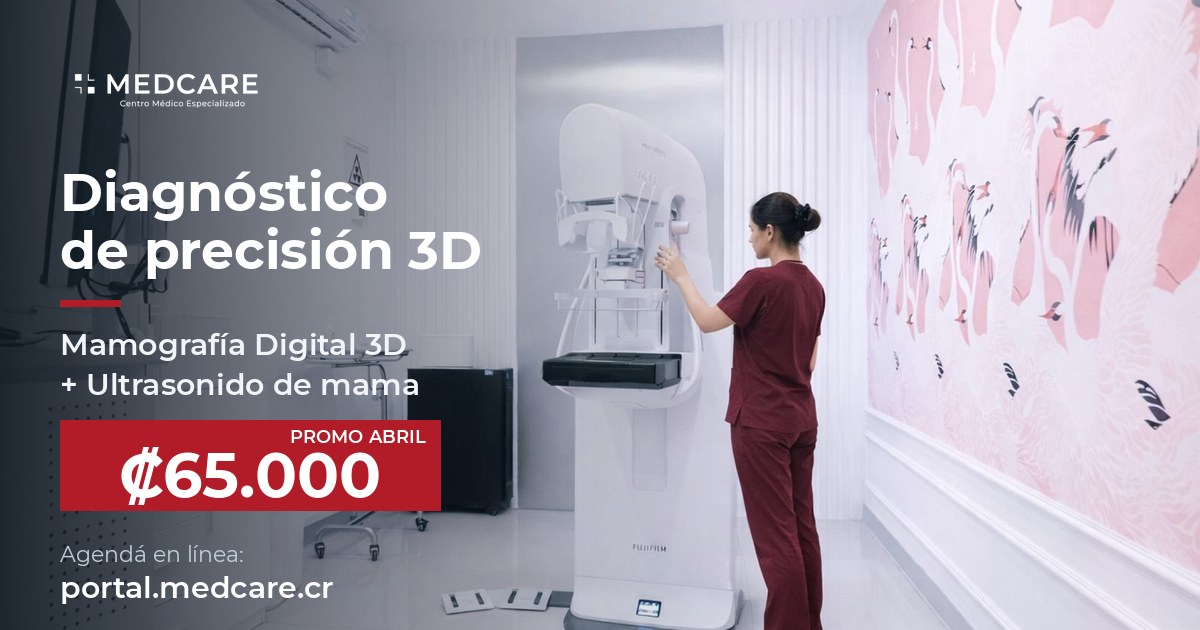
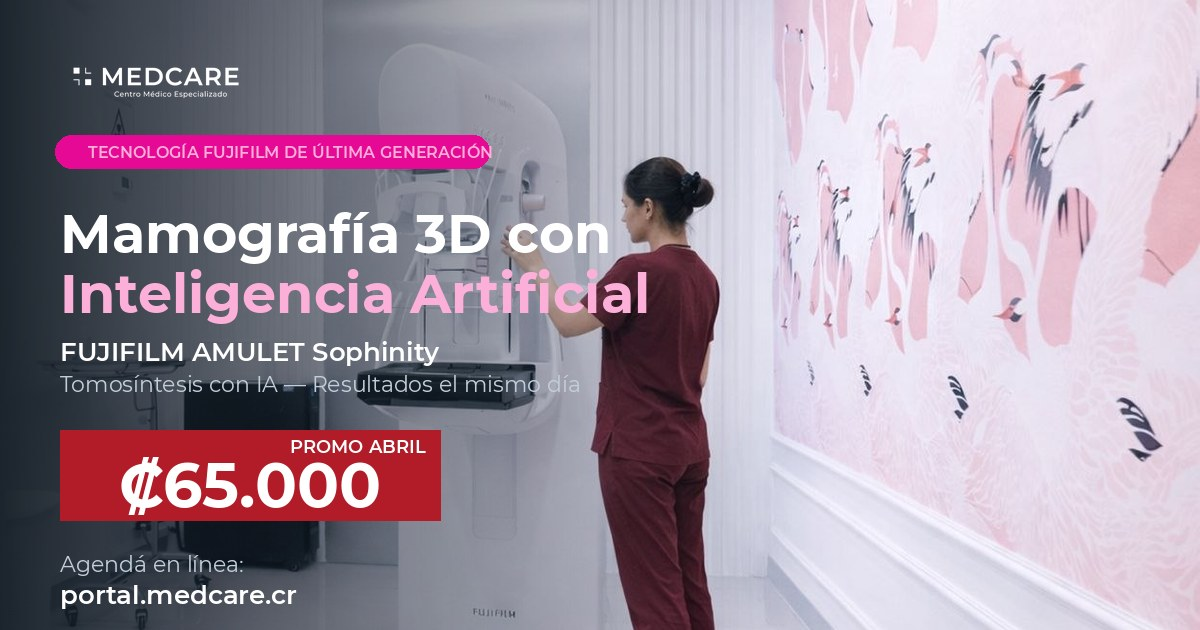
feat(medcare): Hero full-bleed con tech chips + sub-brand Mamografia
Rediseno el Hero para impacto dramatico:
- Imagen full-bleed de la tecnica operando el mamografo (version
  cropped hero 1248x1067 enfocando en tecnica + equipo + mural)
- Overlay navy degradado izquierda -> transparente derecha
- Headline con gradiente pink (Rhodamine Red C -> pale pink) en
  "Inteligencia Artificial"
- Eyebrow badge con border pink y dot animado: "Tecnologia
  Fujifilm de ultima generacion"
- CTA principal con sombra mas intensa + hover translate
- 4 tech chips glassmorphism con iconos SVG: Tomosintesis 3D,
  IA integrada, 10 segundos, Mismo dia

Integra el sub-brand Mamografia del brand book Mamo.pdf:
- brand.ts: nuevos tokens mamoPink (#E50995), mamoPinkMid
  (#EC52B4), mamoPinkSoft (#FCAFD9), mamoPinkBg (#FEEBF5)
- PricingSection promo card: gradiente pink soft + border fucsia
  + precio con gradient text de pink a rojo + eyebrow "paquete
  recomendado" con icono estrella
- OG image regenerada con acentos pink y crop cerrado

Pantones oficiales del brand book Mamografia:
- Rhodamine Red C
- 806 C (y 50% para fondos)

Tipografia: Monserrat (ya aplicada via layout previo).

diff --git a/business-os/src/features/medcare/components/landing/Hero.tsx b/business-os/src/features/medcare/components/landing/Hero.tsx
@@ -5,66 +5,123 @@ const B = MedCareBrand
 
 export function Hero() {
   return (
-    <section className="bg-gradient-to-br from-slate-900 via-slate-800 to-red-900 text-white">
-      <div className="max-w-5xl mx-auto px-4 sm:px-6 py-16 sm:py-24">
-        <div className="flex flex-col md:flex-row items-center gap-8 md:gap-12">
-          <div className="max-w-2xl flex-1">
-            <h1 className="text-3xl sm:text-5xl font-bold leading-tight mb-4">
-              Mamografía 3D con<br />
-              <span className="text-red-400">Inteligencia Artificial.</span>
-            </h1>
-            <p className="text-lg sm:text-xl text-gray-300 mb-4 leading-relaxed">
-              FUJIFILM AMULET Sophinity — tomosíntesis de última generación.
-              Adquisición 3D en 10 segundos con menos dolor.
-            </p>
-            <p className="text-base text-gray-400 mb-8">
-              Detectar a tiempo lo cambia todo. Agenda hoy y recibí resultados el mismo día.
-            </p>
-            <div className="flex flex-col sm:flex-row gap-3">
-              <a
-                href="#agendar"
-                className="inline-flex items-center justify-center gap-2 px-8 py-4 bg-red-600 hover:bg-red-700 text-white rounded-xl font-semibold text-lg transition shadow-lg shadow-red-600/25"
-              >
-                Agendar Mi Estudio
-                <svg className="w-5 h-5" fill="none" stroke="currentColor" viewBox="0 0 24 24">
-                  <path strokeLinecap="round" strokeLinejoin="round" strokeWidth={2} d="M19 9l-7 7-7-7" />
-                </svg>
-              </a>
-              <a
-                href={B.contact.whatsappLink}
-                target="_blank"
-                rel="noopener noreferrer"
-                className="inline-flex items-center justify-center gap-2 px-8 py-4 bg-white/10 hover:bg-white/20 border border-white/20 text-white rounded-xl font-medium text-lg transition"
-              >
-                <svg className="w-5 h-5" fill="currentColor" viewBox="0 0 24 24"><path d="M17.472 14.382c-.297-.149-1.758-.867-2.03-.967-.273-.099-.471-.148-.67.15-.197.297-.767.966-.94 1.164-.173.199-.347.223-.644.075-.297-.15-1.255-.463-2.39-1.475-.883-.788-1.48-1.761-1.653-2.059-.173-.297-.018-.458.13-.606.134-.133.298-.347.446-.52.149-.174.198-.298.298-.497.099-.198.05-.371-.025-.52-.075-.149-.669-1.612-.916-2.207-.242-.579-.487-.5-.669-.51-.173-.008-.371-.01-.57-.01-.198 0-.52.074-.792.372-.272.297-1.04 1.016-1.04 2.479 0 1.462 1.065 2.875 1.213 3.074.149.198 2.096 3.2 5.077 4.487.709.306 1.262.489 1.694.625.712.227 1.36.195 1.871.118.571-.085 1.758-.719 2.006-1.413.248-.694.248-1.289.173-1.413-.074-.124-.272-.198-.57-.347m-5.421 7.403h-.004a9.87 9.87 0 01-5.031-1.378l-.361-.214-3.741.982.998-3.648-.235-.374a9.86 9.86 0 01-1.51-5.26c.001-5.45 4.436-9.884 9.888-9.884 2.64 0 5.122 1.03 6.988 2.898a9.825 9.825 0 012.893 6.994c-.003 5.45-4.437 9.884-9.885 9.884m8.413-18.297A11.815 11.815 0 0012.05 0C5.495 0 .16 5.335.157 11.892c0 2.096.547 4.142 1.588 5.945L.057 24l6.305-1.654a11.882 11.882 0 005.683 1.448h.005c6.554 0 11.89-5.335 11.893-11.893a11.821 11.821 0 00-3.48-8.413z"/></svg>
-                Consultar por WhatsApp
-              </a>
-            </div>
+    <section className="relative isolate overflow-hidden bg-[#0F1820] text-white">
+      {/* Imagen de fondo full-bleed */}
+      <div className="absolute inset-0 -z-10">
+        <Image
+          src="/medcare/reales/tecnica-operando-hero.jpg"
+          alt="Técnica de MedCare operando el mamógrafo FUJIFILM Sophinity"
+          fill
+          priority
+          sizes="100vw"
+          className="object-cover object-[70%_center]"
+        />
+        {/* Overlay degradado navy desde la izquierda */}
+        <div className="absolute inset-0 bg-gradient-to-r from-[#0F1820] via-[#0F1820]/90 via-40% to-transparent" />
+        <div className="absolute inset-0 bg-gradient-to-t from-[#0F1820]/70 to-transparent" />
+      </div>
+
+      <div className="relative max-w-6xl mx-auto px-4 sm:px-6 py-20 sm:py-28 lg:py-36">
+        <div className="max-w-2xl">
+          {/* Eyebrow badge */}
+          <div className="inline-flex items-center gap-2 bg-[#E50995]/15 border border-[#E50995]/40 backdrop-blur-sm px-4 py-1.5 rounded-full mb-6">
+            <span className="w-2 h-2 rounded-full bg-[#E50995] animate-pulse" />
+            <span className="text-xs font-semibold tracking-wider text-[#FCAFD9] uppercase">
+              Tecnología Fujifilm de última generación
+            </span>
           </div>
-          {/* Móvil: imagen visible */}
-          <div className="w-full md:hidden flex justify-center">
-            <Image
-              src="/medcare/reales/tecnica-operando.jpg"
-              alt="Técnica de MedCare operando el mamógrafo FUJIFILM Sophinity en nuestro consultorio"
-              width={340}
-              height={420}
-              className="rounded-2xl shadow-2xl border-2 border-white/10 object-cover"
-              priority
-            />
+
+          <h1 className="text-4xl sm:text-5xl lg:text-6xl font-extrabold leading-[1.05] tracking-tight mb-6">
+            Mamografía 3D con{' '}
+            <span className="bg-gradient-to-r from-[#E50995] to-[#FCAFD9] bg-clip-text text-transparent">
+              Inteligencia Artificial
+            </span>
+          </h1>
+
+          <p className="text-lg sm:text-xl text-slate-200 leading-relaxed mb-4 max-w-xl">
+            <strong className="text-white">FUJIFILM AMULET Sophinity.</strong> Tomosíntesis de última generación con adquisición 3D en 10 segundos y menos dolor que un mamógrafo convencional.
+          </p>
+          <p className="text-base text-slate-300 mb-8 max-w-xl">
+            Detectar a tiempo lo cambia todo. Agendá hoy y recibí resultados el mismo día.
+          </p>
+
+          {/* CTAs */}
+          <div className="flex flex-col sm:flex-row gap-3 mb-10">
+            <a
+              href="#agendar"
+              className="group inline-flex items-center justify-center gap-2 px-8 py-4 bg-[#B11C28] hover:bg-[#8A1520] text-white rounded-xl font-semibold text-lg transition-all shadow-xl shadow-[#B11C28]/30 hover:shadow-2xl hover:shadow-[#B11C28]/50 hover:-translate-y-0.5"
+            >
+              Agendar Mi Estudio
+              <svg className="w-5 h-5 transition-transform group-hover:translate-x-1" fill="none" stroke="currentColor" strokeWidth={2.5} viewBox="0 0 24 24">
+                <path strokeLinecap="round" strokeLinejoin="round" d="M13 7l5 5m0 0l-5 5m5-5H6" />
+              </svg>
+            </a>
+            <a
+              href={B.contact.whatsappLink}
+              target="_blank"
+              rel="noopener noreferrer"
+              className="inline-flex items-center justify-center gap-2 px-8 py-4 bg-white/10 hover:bg-white/15 backdrop-blur-md border border-white/30 text-white rounded-xl font-medium text-lg transition"
+            >
+              <svg className="w-5 h-5" fill="currentColor" viewBox="0 0 24 24"><path d="M17.472 14.382c-.297-.149-1.758-.867-2.03-.967-.273-.099-.471-.148-.67.15-.197.297-.767.966-.94 1.164-.173.199-.347.223-.644.075-.297-.15-1.255-.463-2.39-1.475-.883-.788-1.48-1.761-1.653-2.059-.173-.297-.018-.458.13-.606.134-.133.298-.347.446-.52.149-.174.198-.298.298-.497.099-.198.05-.371-.025-.52-.075-.149-.669-1.612-.916-2.207-.242-.579-.487-.5-.669-.51-.173-.008-.371-.01-.57-.01-.198 0-.52.074-.792.372-.272.297-1.04 1.016-1.04 2.479 0 1.462 1.065 2.875 1.213 3.074.149.198 2.096 3.2 5.077 4.487.709.306 1.262.489 1.694.625.712.227 1.36.195 1.871.118.571-.085 1.758-.719 2.006-1.413.248-.694.248-1.289.173-1.413-.074-.124-.272-.198-.57-.347m-5.421 7.403h-.004a9.87 9.87 0 01-5.031-1.378l-.361-.214-3.741.982.998-3.648-.235-.374a9.86 9.86 0 01-1.51-5.26c.001-5.45 4.436-9.884 9.888-9.884 2.64 0 5.122 1.03 6.988 2.898a9.825 9.825 0 012.893 6.994c-.003 5.45-4.437 9.884-9.885 9.884m8.413-18.297A11.815 11.815 0 0012.05 0C5.495 0 .16 5.335.157 11.892c0 2.096.547 4.142 1.588 5.945L.057 24l6.305-1.654a11.882 11.882 0 005.683 1.448h.005c6.554 0 11.89-5.335 11.893-11.893a11.821 11.821 0 00-3.48-8.413z"/></svg>
+              Consultar por WhatsApp
+            </a>
           </div>
-          {/* Desktop: imagen lateral */}
-          <div className="hidden md:block flex-shrink-0">
-            <Image
-              src="/medcare/reales/tecnica-operando.jpg"
-              alt="Técnica de MedCare operando el mamógrafo FUJIFILM Sophinity en nuestro consultorio"
-              width={420}
-              height={520}
-              className="rounded-2xl shadow-2xl border-2 border-white/10 object-cover"
-              priority
-            />
+
+          {/* Tech stats chips */}
+          <div className="flex flex-wrap gap-3">
+            <TechChip icon="cube" label="Tomosíntesis 3D" sublabel="Capa a capa" />
+            <TechChip icon="ai" label="IA integrada" sublabel="Detección asistida" />
+            <TechChip icon="clock" label="10 segundos" sublabel="Captura 3D" />
+            <TechChip icon="check" label="Mismo día" sublabel="Resultados" />
           </div>
         </div>
       </div>
+
+      {/* Degradado inferior para suavizar transición */}
+      <div className="pointer-events-none absolute bottom-0 left-0 right-0 h-16 bg-gradient-to-t from-[#0F1820] to-transparent" />
     </section>
+  )
+}
+
+function TechChip({
+  icon,
+  label,
+  sublabel,
+}: {
+  icon: 'cube' | 'ai' | 'clock' | 'check'
+  label: string
+  sublabel: string
+}) {
+  const icons = {
+    cube: (
+      <svg className="w-5 h-5" fill="none" stroke="currentColor" strokeWidth={2} viewBox="0 0 24 24">
+        <path strokeLinecap="round" strokeLinejoin="round" d="M21 7.5l-9-5.25L3 7.5m18 0l-9 5.25m9-5.25v9l-9 5.25M3 7.5l9 5.25M3 7.5v9l9 5.25m0-9v9" />
+      </svg>
+    ),
+    ai: (
+      <svg className="w-5 h-5" fill="none" stroke="currentColor" strokeWidth={2} viewBox="0 0 24 24">
+        <path strokeLinecap="round" strokeLinejoin="round" d="M9.663 17h4.673M12 3v1m6.364 1.636l-.707.707M21 12h-1M4 12H3m3.343-5.657l-.707-.707m2.828 9.9a5 5 0 117.072 0l-.548.547A3.374 3.374 0 0014 18.469V19a2 2 0 11-4 0v-.531c0-.895-.356-1.754-.988-2.386l-.548-.547z" />
+      </svg>
+    ),
+    clock: (
+      <svg className="w-5 h-5" fill="none" stroke="currentColor" strokeWidth={2} viewBox="0 0 24 24">
+        <path strokeLinecap="round" strokeLinejoin="round" d="M12 8v4l3 3m6-3a9 9 0 11-18 0 9 9 0 0118 0z" />
+      </svg>
+    ),
+    check: (
+      <svg className="w-5 h-5" fill="none" stroke="currentColor" strokeWidth={2} viewBox="0 0 24 24">
+        <path strokeLinecap="round" strokeLinejoin="round" d="M9 12l2 2 4-4m6 2a9 9 0 11-18 0 9 9 0 0118 0z" />
+      </svg>
+    ),
+  }
+
+  return (
+    <div className="group flex items-center gap-2.5 bg-white/10 hover:bg-white/15 backdrop-blur-md border border-white/20 px-4 py-2.5 rounded-xl transition">
+      <div className="text-[#FCAFD9]">{icons[icon]}</div>
+      <div className="text-left">
+        <div className="text-sm font-bold text-white leading-tight">{label}</div>
+        <div className="text-[11px] text-slate-300 leading-tight">{sublabel}</div>
+      </div>
+    </div>
   )
 }

diff --git a/business-os/src/features/medcare/components/landing/PricingSection.tsx b/business-os/src/features/medcare/components/landing/PricingSection.tsx
@@ -10,23 +10,27 @@ export function PricingSection() {
         </p>
 
         <div className="space-y-3">
-          {/* Promo destacada */}
+          {/* Promo destacada — sub-brand Mamografía (Pantone Rhodamine Red C + 806 C) */}
           <a
             href="#agendar"
-            className="group block relative overflow-hidden border-2 border-red-400 bg-gradient-to-r from-red-50 to-red-100 rounded-2xl p-6 hover:shadow-lg transition-all"
+            className="group block relative overflow-hidden border-2 border-[#E50995]/40 bg-gradient-to-br from-[#FEEBF5] via-white to-[#FCAFD9]/40 rounded-2xl p-6 hover:shadow-xl hover:shadow-[#E50995]/15 transition-all"
           >
-            <div className="absolute top-0 right-0 bg-red-600 text-white text-xs font-bold px-4 py-1.5 rounded-bl-xl">
+            <div className="absolute top-0 right-0 bg-gradient-to-r from-[#E50995] to-[#EC52B4] text-white text-xs font-bold px-4 py-1.5 rounded-bl-xl tracking-wider">
               PROMO ABRIL
             </div>
             <div className="flex items-center justify-between">
-              <div>
-                <h3 className="text-lg font-bold text-red-800">Mamografía 3D + Ultrasonido de mama</h3>
-                <p className="text-sm text-red-600 mt-1">Paquete completo — detección temprana integral</p>
+              <div className="flex-1 pr-4">
+                <div className="inline-flex items-center gap-1.5 text-[10px] font-bold text-[#E50995] uppercase tracking-wider mb-1.5">
+                  <svg className="w-3.5 h-3.5" fill="currentColor" viewBox="0 0 20 20"><path d="M9.049 2.927c.3-.921 1.603-.921 1.902 0l1.07 3.292a1 1 0 00.95.69h3.462c.969 0 1.371 1.24.588 1.81l-2.8 2.034a1 1 0 00-.364 1.118l1.07 3.292c.3.921-.755 1.688-1.54 1.118l-2.8-2.034a1 1 0 00-1.175 0l-2.8 2.034c-.784.57-1.838-.197-1.539-1.118l1.07-3.292a1 1 0 00-.364-1.118L2.98 8.72c-.783-.57-.38-1.81.588-1.81h3.461a1 1 0 00.951-.69l1.07-3.292z" /></svg>
+                  Paquete recomendado
+                </div>
+                <h3 className="text-lg font-bold text-[#0F1820]">Mamografía 3D + Ultrasonido de mama</h3>
+                <p className="text-sm text-slate-600 mt-1">Detección temprana integral — tomosíntesis con IA</p>
               </div>
-              <div className="text-right shrink-0 ml-4">
-                <p className="text-sm text-gray-400 line-through">₡84,000</p>
-                <p className="text-2xl font-black text-red-700">₡65,000</p>
-                <p className="text-xs text-red-600 font-medium">Ahorrás ₡19,000</p>
+              <div className="text-right shrink-0">
+                <p className="text-xs text-slate-400 line-through">₡84,000</p>
+                <p className="text-3xl font-black bg-gradient-to-r from-[#E50995] to-[#B11C28] bg-clip-text text-transparent">₡65,000</p>
+                <p className="text-[10px] text-[#E50995] font-bold uppercase tracking-wider">Ahorrás ₡19,000</p>
               </div>
             </div>
           </a>

diff --git a/business-os/src/features/medcare/brand.ts b/business-os/src/features/medcare/brand.ts
@@ -16,6 +16,11 @@ export const MedCareBrand = {
     // Secundarios oficiales del brand book
     blueGray: '#C4CFDA',      // Pantone 538 C
     paleBlue: '#D2DCE6',      // Pantone 642 C
+    // Sub-brand Mamografía (brand book Mamo)
+    mamoPink: '#E50995',       // Pantone Rhodamine Red C
+    mamoPinkMid: '#EC52B4',    // Pantone 806 C
+    mamoPinkSoft: '#FCAFD9',   // 806 C 50%
+    mamoPinkBg: '#FEEBF5',     // 806 C al 50% para fondos
     accent: '#FEF2F2',        // Fondo suave rojo (derivado)
     dark: '#0F1820',
     white: '#FFFFFF',
